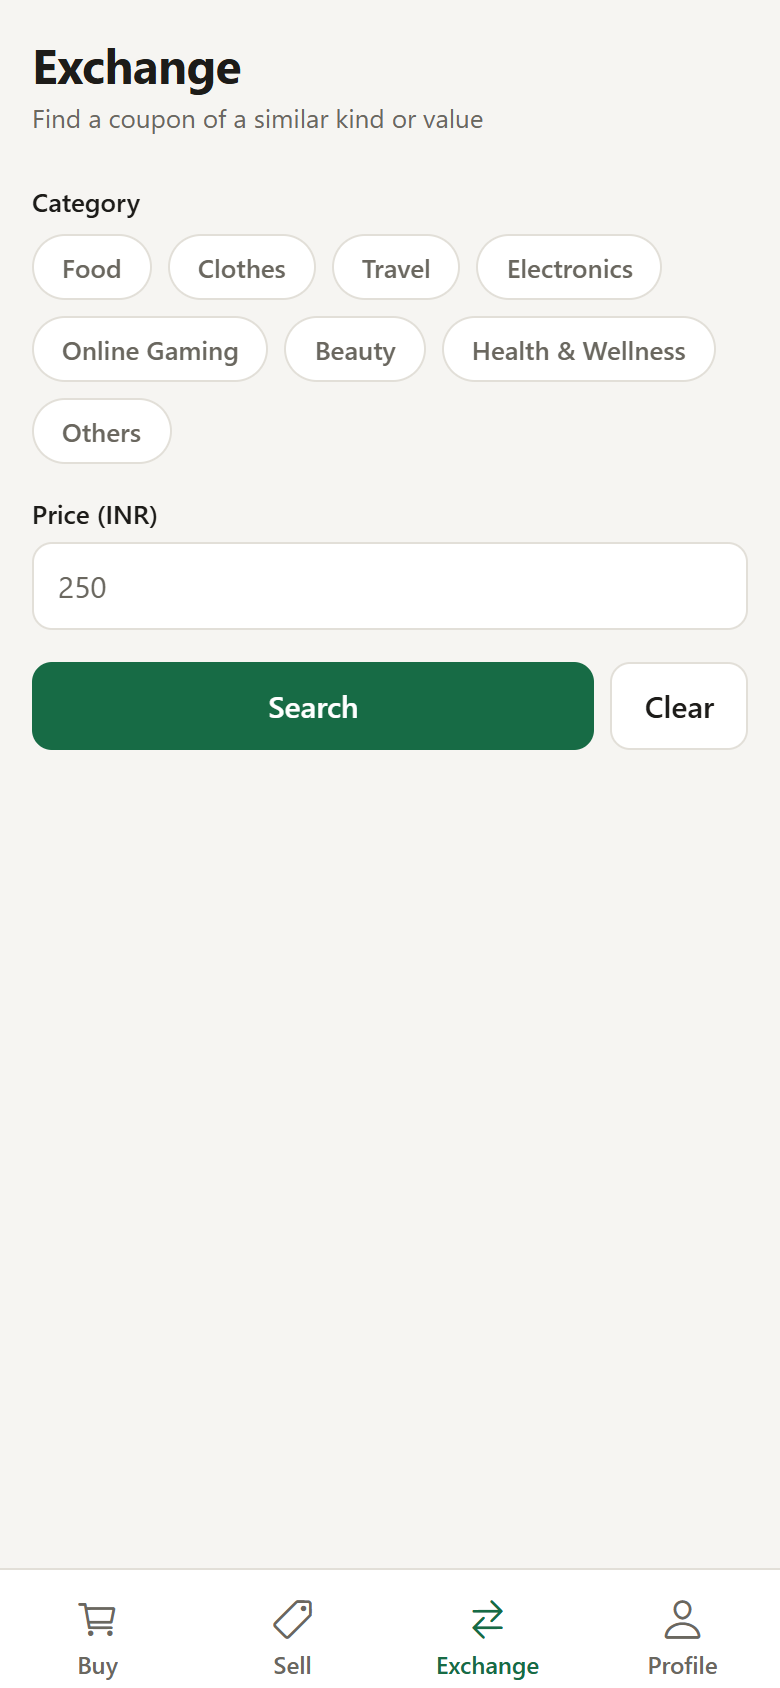
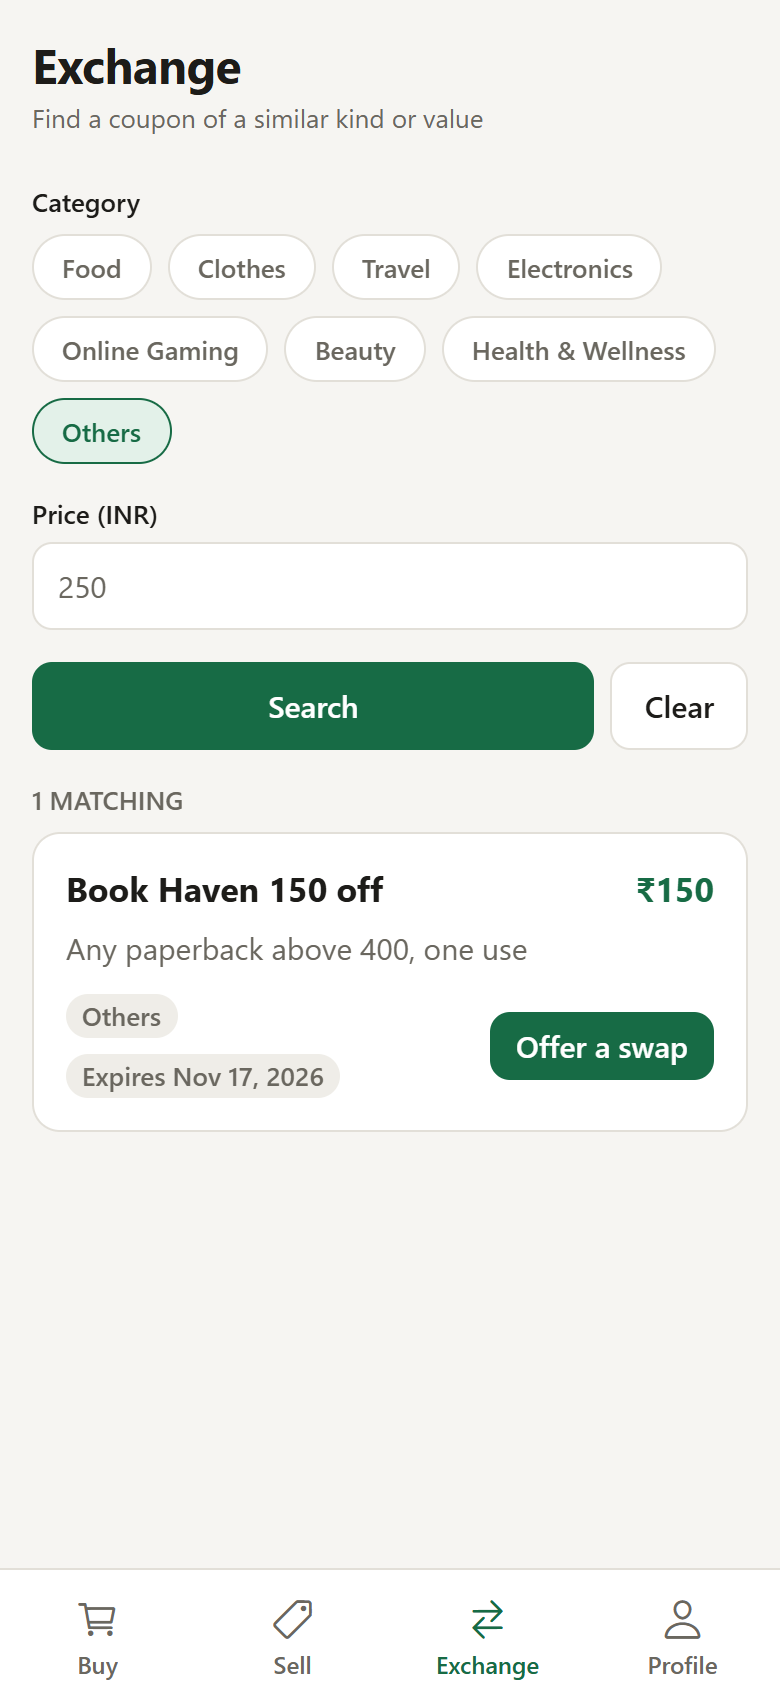
README: exchange offers screenshots and the live check (#14)

diff --git a/README.md b/README.md
@@ -33,7 +33,7 @@
   </a>
 </p>
 
-<p align="center"><sub>Last updated: 2026-10-18 &middot; Live on free tiers (Vercel for the web build, Render for the API, Neon for Postgres); also runs in Expo Go</sub></p>
+<p align="center"><sub>Last updated: 2026-10-23 &middot; Live on free tiers (Vercel for the web build, Render for the API, Neon for Postgres); also runs in Expo Go</sub></p>
 
 ---
 
@@ -85,8 +85,12 @@ in the first two minutes:
     <td width="50%"><img src="docs/images/sell.png" alt="Sell form"><p align="center"><sub>Sell: list a coupon (<a href="#features">features</a>)</sub></p></td>
   </tr>
   <tr>
-    <td width="50%"><img src="docs/images/exchange.png" alt="Exchange search"><p align="center"><sub>Exchange: find matching coupons (<a href="#status-and-roadmap">limits</a>)</sub></p></td>
+    <td width="50%"><img src="docs/images/exchange.png" alt="Exchange search with one match and an Offer a swap button"><p align="center"><sub>Exchange: find a match and offer a swap (<a href="#features">features</a>)</sub></p></td>
     <td width="50%"><img src="docs/images/profile.png" alt="Profile with one coupon bought"><p align="center"><sub>Profile: details, listings, purchases (<a href="#features">features</a>)</sub></p></td>
+  </tr>
+  <tr>
+    <td width="50%"><img src="docs/images/offers.png" alt="Profile, Offers tab: a pending offer of one coupon for another with Decline and Accept buttons"><p align="center"><sub>Offers: the owner accepts or declines a swap (<a href="#features">features</a>)</sub></p></td>
+    <td width="50%"></td>
   </tr>
 </table>
 
@@ -194,7 +198,7 @@ mise.toml           Node version pin
 | API tests | 33 tests (`server/test`) on real Postgres: validation, auth, ownership, withdraw, the buy transaction including a race for one coupon, and the exchange offers (rules, accept, decline, cancel, cancellation on withdraw or sale, expiry, a race between accept, decline and a purchase); pass on 2026-10-23 |
 | Lint and format | ESLint (app and API) clean of errors, Prettier clean on the API, 2026-10-18; two hook-dependency warnings remain in the app |
 | Build check | `npm run check` (lint, `expo-doctor`, Android Hermes and web bundles) passed on 2026-10-18 |
-| Browser run | on 2026-10-18 the live site was driven in Chrome (Playwright): a wrong password refused, the Buy list, a purchase (the coupon left the list and showed under Profile), a reload that kept the session, and a seller withdrawing a listing |
+| Browser run | on 2026-10-18 the live site was driven in Chrome (Playwright): a wrong password refused, the Buy list, a purchase (the coupon left the list and showed under Profile), a reload that kept the session, and a seller withdrawing a listing. On 2026-10-23 the same was done for exchange offers on the live site: the demo seller offered a swap, the demo buyer accepted it, and the coupons changed hands |
 | Security | bcrypt passwords, signed expiring tokens, helmet, CORS limited to the web origin, a rate limit on every route and a stricter one on login and register, JSON errors without stack traces, parameterised SQL; `npm audit --omit=dev` found 0 in the API on 2026-10-18 |
 | CI | GitHub Actions runs the API job (lint, format, migrate, tests, audit) and the app job (lint, `expo-doctor`, web export) on every push |
 | Monitoring and scanning | an Uptime workflow pings the API `/health` and the app every 30 minutes, CodeQL scans on every push and weekly, and Dependabot opens weekly version-update pull requests (workflows added 2026-10-20) |
@@ -296,7 +300,7 @@ compute-hours a month, far above a demo.
 
 ## Status and roadmap
 
-**Reached:** live on free tiers (2026-10-18) on an own API and database; the live site was exercised end to end in a browser (sign in, browse, buy, profile, reload, withdraw); 33 API tests and CI; exchange offers added 2026-10-23. **Not reached:** a run on a physical phone.
+**Reached:** live on free tiers (2026-10-18) on an own API and database; the live site was exercised end to end in a browser (sign in, browse, buy, profile, reload, withdraw); 33 API tests and CI; exchange offers added and checked on the live site 2026-10-23. **Not reached:** a run on a physical phone.
 
 **Known limitations**
 
